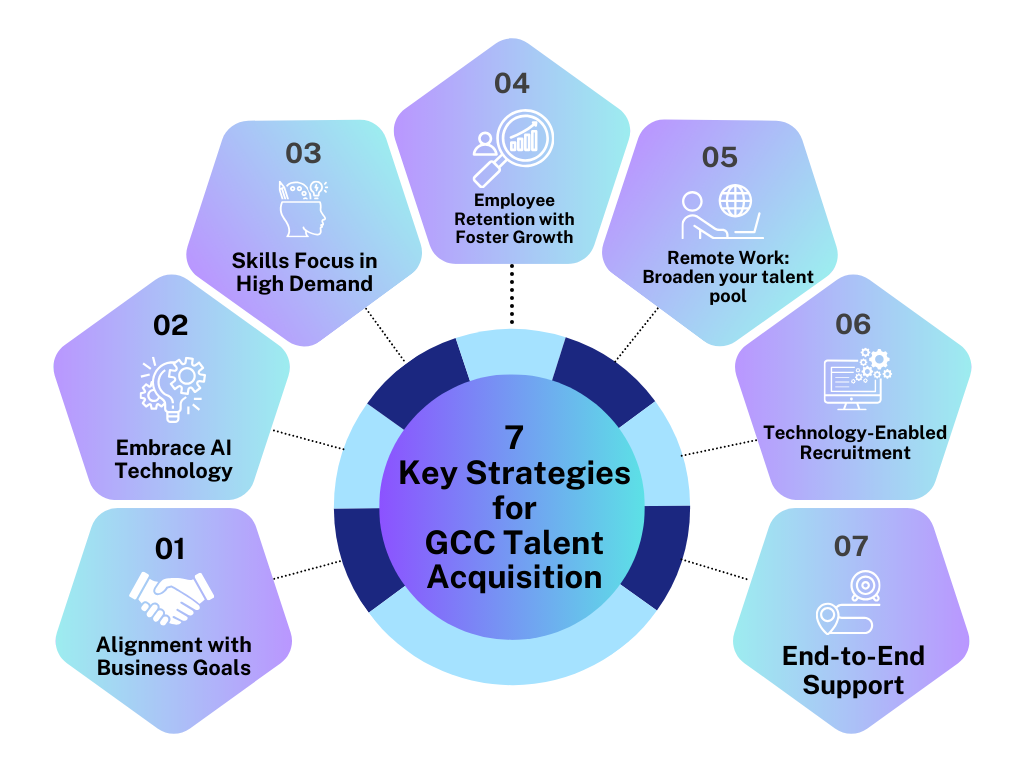
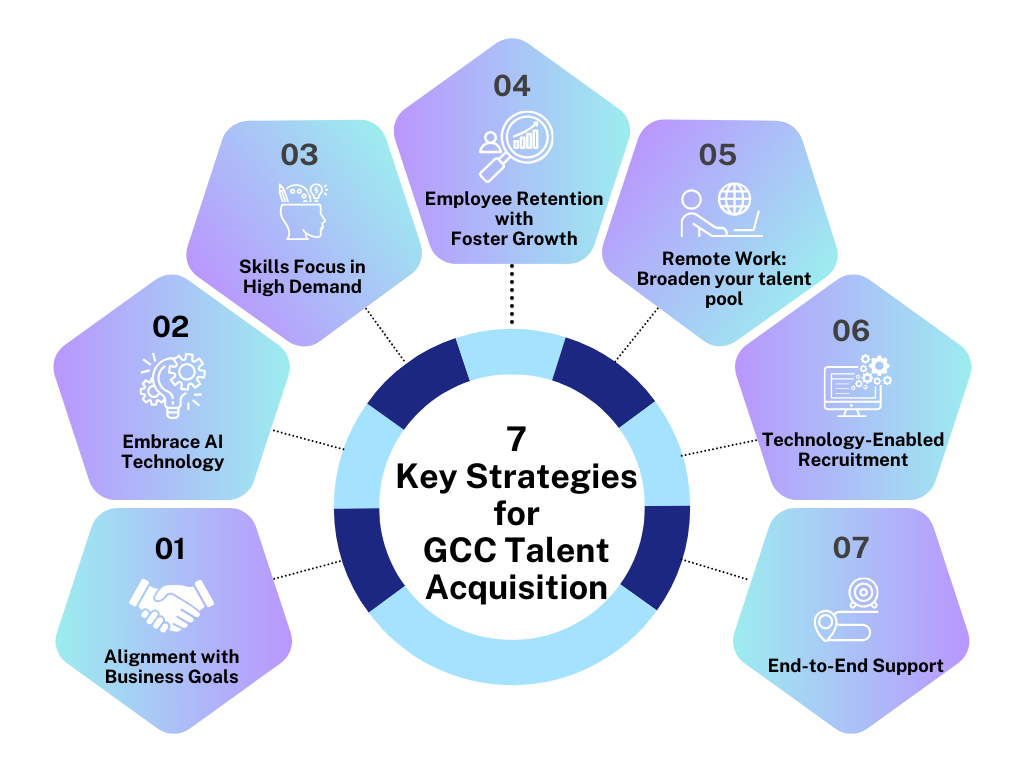
GCC navbar change and image update

diff --git a/components/Live/Navbar.js b/components/Live/Navbar.js
@@ -463,7 +463,7 @@ const Navbar = () => {
                           className={`nav-link ${currentPath == "/gcc-bot" && "active"
                             }`}
                         >
-                          BOT
+                          Build Operate Transfer (BOT)
                         </Link>
                       </li>
 
